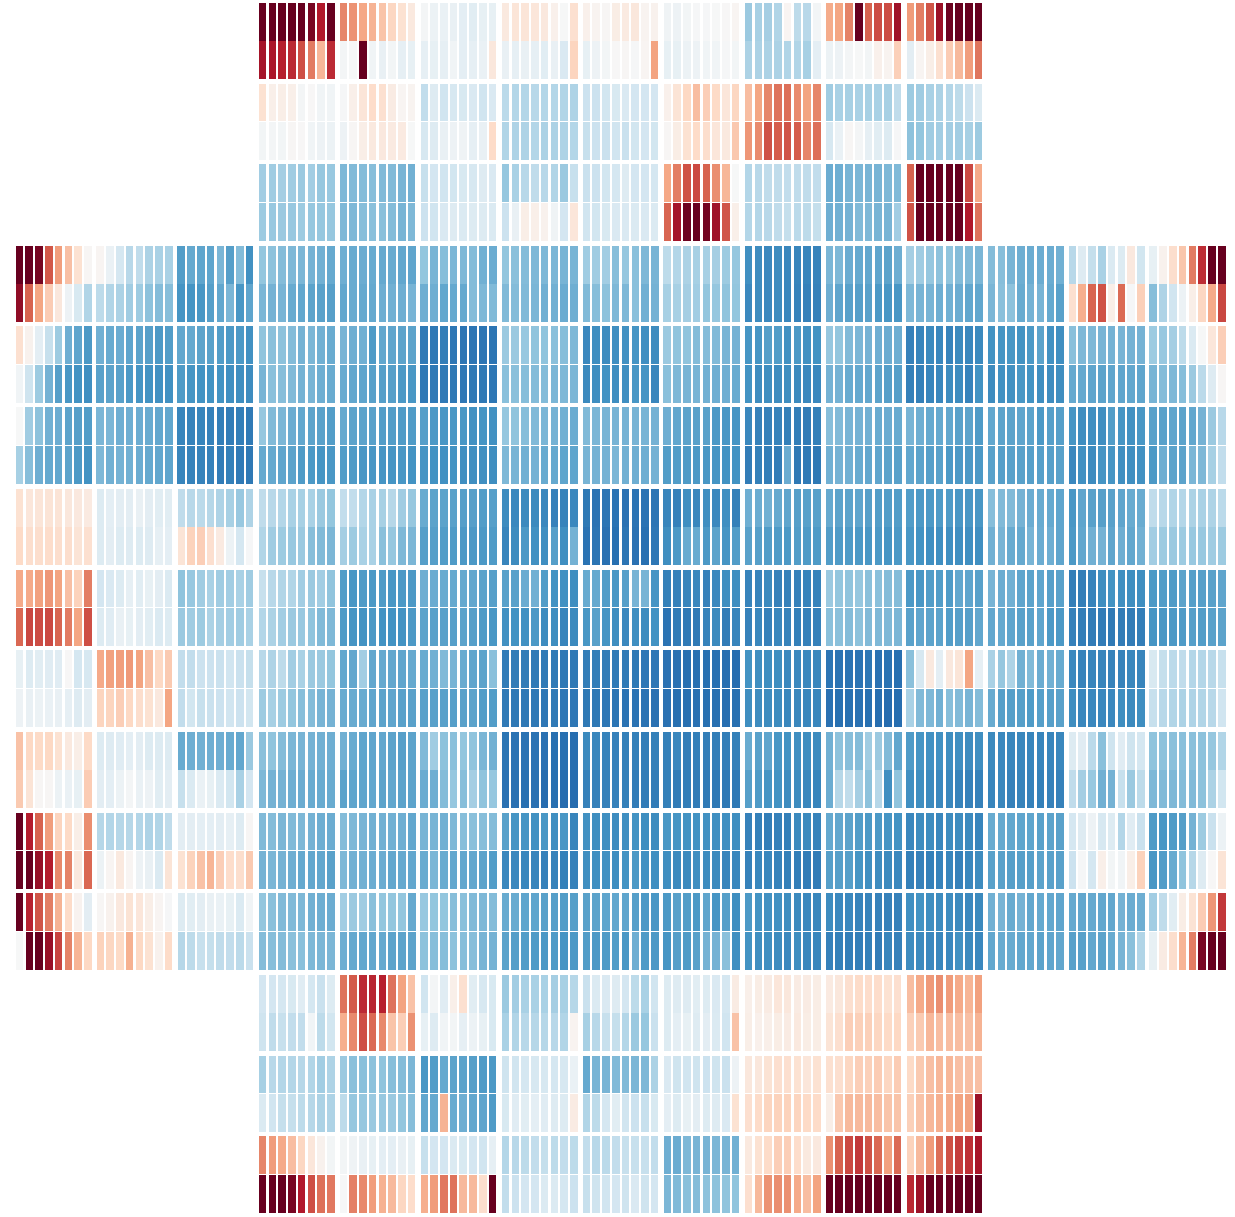
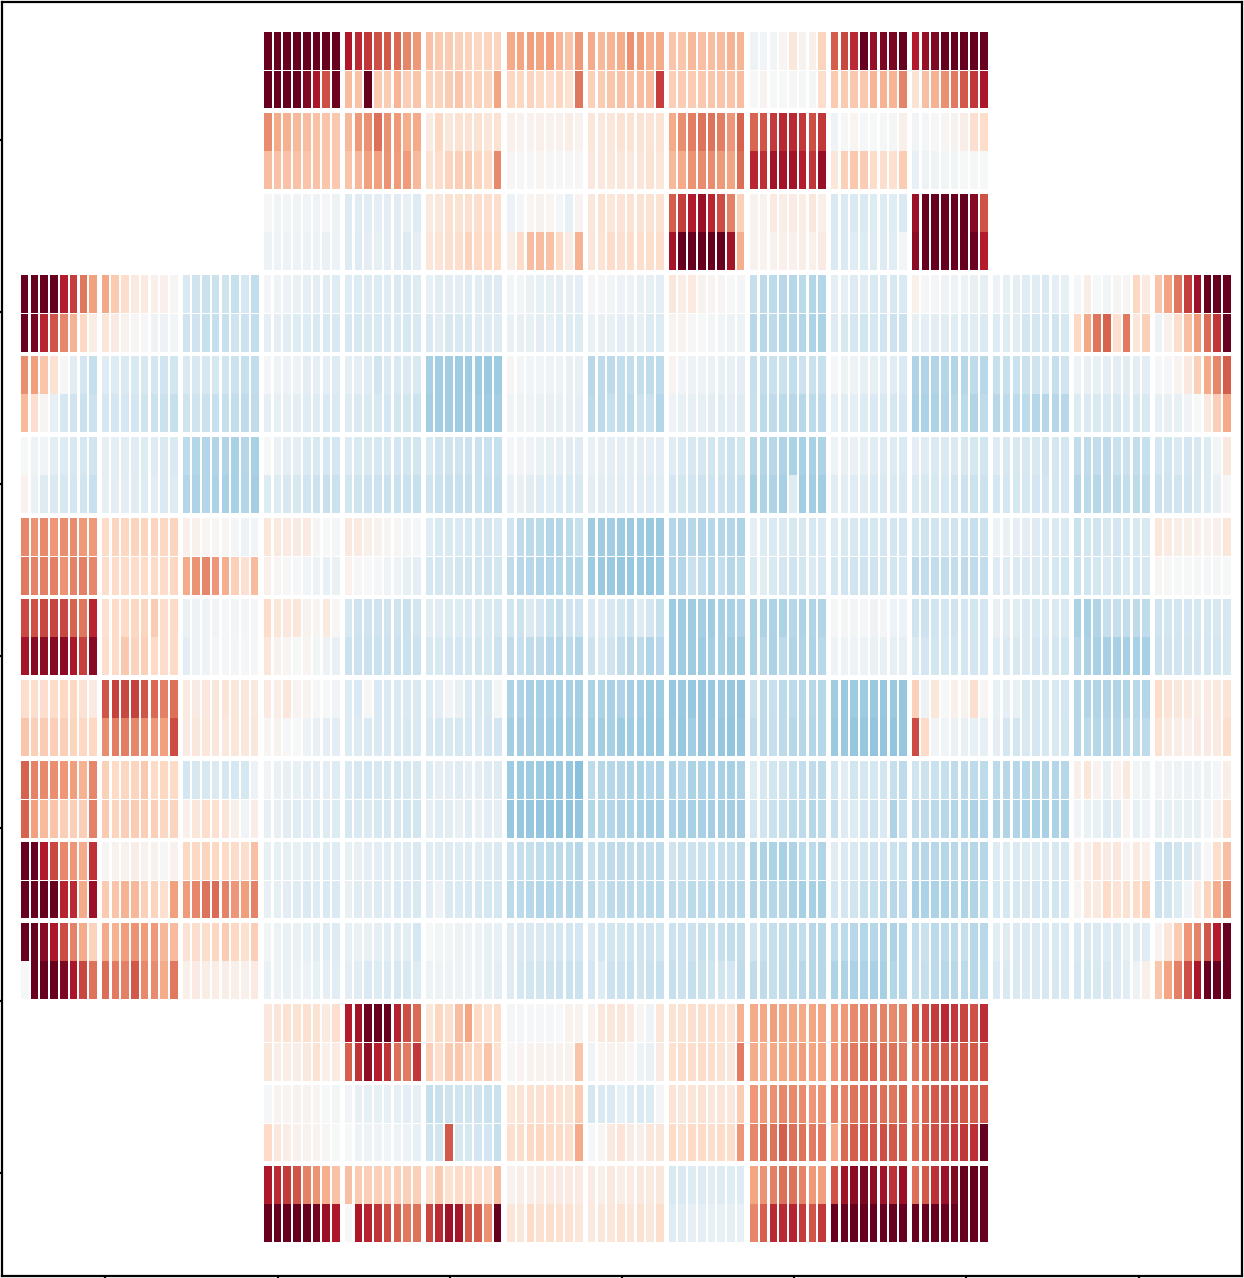
updating figure 3 and caption 2 to detail readnoise file provenance

diff --git a/PSTN-054.tex b/PSTN-054.tex
@@ -383,7 +383,7 @@ Cm & reference &  23.46 &  24.45 &  24.45 &  24.35 &  24.19 &  23.75 \\
 \begin{figure}[!ht]
 \centering
 \includegraphics[width=0.53\textwidth]{figures/ampnoise.pdf}
-\caption{Focal plane readout-noise values or the 3024 amplifiers on the CCD plane of the LSST DOE camera. The values reported are from Camera I\&T BOT Run 13283 (a standard ``B'' image sequence analyzed with the Camera eotest package, taken with the v26 Sequencer files with the timing established as the default for BOT images.  This run was also used for Camera Requirement Verification). The median noise is measured to be well below the requirement of 9~$e^-$/pixel/readout, at $\sim$5.5~$e^-$/pixel/readout. The distribution shows a long tail with 95\% of the amplifiers within 9~$e^-$/pixel/readout (one amplifier with overall poor performance that contributes to the tail, however, will not be used and, for all others, the noise is contained to <18~$e^-$/pixel/readout). Vertical lines mark the median and nominal 9~$e^-$/pixel/readout noise values, a horizontal line marks the location of the 3024-{\it th} amplifier, and the top of the cumulative distribution.}\label{fig:rndist}
+\caption{Focal plane readout-noise values or the 3024 amplifiers on the CCD plane of the LSST DOE camera. The values reported are from Camera Integration and Testing BOT Run 13283 (based on bias images taken using Version 26 sequencers with the full camera in operation and analyzed with the Camera \href{https://github.com/lsst-camera-dh/eotest}{EOTest package}.  This run was also used for Camera Requirement Verification). The median noise is measured to be well below the requirement of 9~$e^-$/pixel/readout, at $\sim$5.5~$e^-$/pixel/readout. The distribution shows a long tail with 95\% of the amplifiers within 9~$e^-$/pixel/readout (one amplifier with overall poor performance that contributes to the tail, however, will not be used and, for all others, the noise is contained to <18~$e^-$/pixel/readout). Vertical lines mark the median and nominal 9~$e^-$/pixel/readout noise values, a horizontal line marks the location of the 3024-{\it th} amplifier, and the top of the cumulative distribution.}\label{fig:rndist}
 \end{figure}
 
 
@@ -394,7 +394,7 @@ Cm & reference &  23.46 &  24.45 &  24.45 &  24.35 &  24.19 &  23.75 \\
 \begin{figure}[!hb]
     \centering
 
-\includegraphics[width=0.4\textwidth]{figures/u_focal_plane}\includegraphics[width=0.4\textwidth]{figures/y_focal_plane}%\includegraphics[height=0.4\textwidth]{figures/colorbar.png}
+    \includegraphics[width=0.35\textwidth]{figures/ccdplaneU}\includegraphics[width=0.35\textwidth]{figures/ccdplaneY}\includegraphics[height=0.36\textwidth]{figures/colorbar.png}
 \caption{The $u$ (left) and $y$ band (right) $\Delta Cm$ corrections associated with read-noise, QE, and vignetting effects for each amplifier in the LSST DOE Camera CCD plane. The $u$ and $y$ bands represent the most extreme and most modest correction and correction IQR values, respectively (see \autoref{tab:bl3}).}\label{fig:ccdplane}
 \end{figure}
  \FloatBarrier
